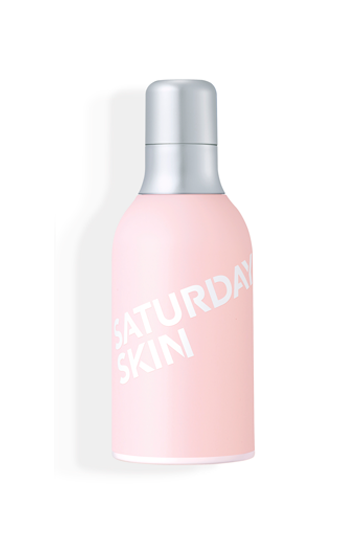
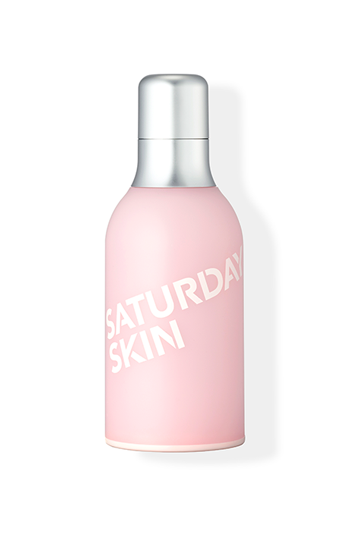
replaced sat prod image

Changed region(s): [[0.275, 0.3895, 0.7333, 0.8689], [0.3056, 0.1199, 0.6417, 0.4195]]

diff --git a/client/js/common/directives/finalnavbar/finalnavbar.html b/client/js/common/directives/finalnavbar/finalnavbar.html
@@ -57,14 +57,14 @@
   <div class="menu-mobile1" style="float:left;">
     <button onclick="myFunction()" class="popup-btn1"></button>
       <div id="mobilePop1" class="popup-content1" style="left:0;">
-        <a href="/about" ui-sref="about">ABOUT</a>
-        <a href="/chaum" ui-sref="chaum">CHAUM</a>
-        <a href="/cha-health-systmes" ui-sref="cha-health-systems">CHA HEALTH SYSTEMS</a>
-        <a href="/innovation" ui-sref="innovation">INNOVATION</a>
-        <a href="aurous" ui-sref="aurous">AUROUS</a>
+        <a href="/about" ui-sref="about" id="mobile-menu-about">ABOUT:         THE STORY</a>
+        <a href="/chaum" ui-sref="chaum" id="mobile-menu-chaum">CHAUM</a>
+        <a href="/cha-health-systmes" ui-sref="cha-health-systems" id="mobile-menu-chs">CHA HEALTH SYSTEMS</a>
+        <a href="/innovation" ui-sref="innovation" id="id="mobile-menu-innovation"">INNOVATION</a>
+        <a href="aurous" ui-sref="aurous" id="mobile-menu-aurous">AUROUS</a>
         <!-- <a href="/aurous/products" ui-sref="aurous_products">AUORUS PRODUCTS</a> -->
-        <a href="/saturday-skin" ui-sref="saturday-skin">SATURDAY SKIN</a>
-        <a href="/saturday-skin/products" ui-sref="saturday_products">SATURDAY SKIN PRODUCTS</a>
+        <a href="/saturday-skin" ui-sref="saturday-skin" id="mobile-menu-sat">SATURDAY SKIN:         THE BRAND</a>
+        <a href="/saturday-skin/products" ui-sref="saturday_products" id="mobile-menu-satprod">       THE PRODUCTS</a>
       </div>
   </div>
 
@@ -74,11 +74,9 @@
     <img id="callingsearchs1" src="search1.png"  />
 
     <div id="search-popup" class="popup-content-search" style="left:0;">
-      <div class="close-button"><img src="icons/close-icon.png"></div>
-
+  
       <div class="search-content">
-        <input id="mobile-search" type="text" ng-model="text" placeholder="Type to search"></input>
-        <!-- <div id="mobile-search-icon"> <img src="search1.png"  /></div> -->
+        <input id="mobile-search" type="text" ng-model="text" ></input>
       </div>
       
     </div>
@@ -107,8 +105,24 @@ window.onclick = function(event) {
         openDropdown.classList.remove('show');
       }
     }
+    // document.getElementsByClassName("popup-btn1").
+    $(".popup-btn1").removeClass("x-icon");
   }
 }
+
+// window.onclick = function(e) {
+//     if(!e.target.matches('.third-part-mobile')) {
+//     var popcontent = document.getElementsByClassName("popup-content-search");
+//     var j; 
+//     for (j = 0; j < popcontent.length; j++) {
+//       var content = popcontent[i];
+//       if (content.classList.contains('show-popup')) {
+//         content.classList.remove("show-popup");
+//       }
+//     }
+//   }
+// }
+
 </script>
 
 

diff --git a/client/js/common/directives/finalnavbar/finalnavbar.scss b/client/js/common/directives/finalnavbar/finalnavbar.scss
@@ -465,6 +465,15 @@ a.up-arrow-about:after {
   display: none;
 }
 
+#callingsearchs1 {
+  margin-right: 15px;
+  height: 18px;
+  width: 15px;
+  padding-left: 2px;
+  margin-top: 3px;
+  padding-top: 3px;
+}
+
 .mobile-menu {
   height: 60px;
   width: 100%;
@@ -486,10 +495,12 @@ a.up-arrow-about:after {
 .popup-btn1 {
   background-color: white;
   width: 45px;
-  height: 40px;
+  height: 45px;
   font-size: 12px;
   border: none;
   cursor: pointer;
+  background-position: 80% 93%;
+  background-size: 36px;
   background-image: url("menu-22.png");
   background-repeat: no-repeat;
 }
@@ -502,43 +513,53 @@ a.up-arrow-about:after {
 .popup-content1 {
   display: none;
   position: absolute;
-  margin-top: 13px;
-  background-color: rgba(25, 28, 59, 0.9);
+  margin-top: 8px;
+  background-color: rgba(255, 255, 255, 1);
+  /*background-color: rgba(25, 28, 59, 0.9);*/
   /*min-width: 300px;*/
   width: 100vw;
   height: 100vh;
   overflow: auto;
   z-index: 9999;
-  text-align: center;
+  /*text-align: center;*/
 }
 
 .popup-content1 a {
-  color: rgba(173, 216, 230, 0.9);
-  font-family: WorkSans;
-  font-weight: 700;
-  letter-spacing: 1px;
-  padding: 20px 16px;
+  /*color: rgba(173, 216, 230, 0.9);*/
+  /*font-family: WorkSans;*/
+  /*font-weight: 700;*/
+  /*letter-spacing: 1px;*/
+  padding: 19px 16px;
   text-decoration: none;
   border-top: 1px solid rgba(173, 216, 230, 0.4);
   display: block;
+
+  opacity: 0.8;
+  color: grey;
+  font-size: 13px;
+  font-family: 'Work Sans';
 }
 
 .popup-content-search {
   display: none;
   position: absolute;
-  margin-top: 24px;
-  background-color: rgba(25, 28, 59, 0.9);
-  width: 100vw;
-  height: 160px;
-  /*overflow: auto;*/
+  width: 200px;
+  margin-right: auto;
+  margin-left: auto;
+  left: 0 !important;
+  right: 0 !important;
+  margin-top: -38px;
+  background-color: white;
+  /*background-color: rgba(25, 28, 59, 0.9);*/
+  height: 59px;
+  padding-top: 17px;
   z-index: 999;
   text-align: center;
 
-  color: rgba(173, 216, 230, 0.9);
+  color: black;
   font-family: WorkSans;
   font-weight: 700;
 }
-
 
 .menu-mobile1 a:hover {background-color: #f1f1f1}
 
@@ -549,10 +570,6 @@ a.up-arrow-about:after {
   /*margin-left: 42%;*/
   margin: 0 auto;
   width: 118px;
-}
-
-.mobile-menu {
-  text-align: center;
 }
 
 .third-part-mobile {
@@ -568,5 +585,15 @@ a.up-arrow-about:after {
   z-index: 9999;
 }
 
+#mobile-menu-about {
+  /*padding-left: 50%;*/
+}
+
+
+.x-icon {
+  background-image: url('icons/close-icon.png');
+  background-position: 55% 72%;
+  background-size: 25px;
+}
 
 }

diff --git a/client/js/saturday_products/saturday_products.scss b/client/js/saturday_products/saturday_products.scss
@@ -209,11 +209,6 @@
 }
 
 @media screen and (max-width: 769px) {
-    .prodcut-grid-item-inner {
-        height: 350px;
-        margin: 0 auto;
-        /*font-size: 13px;*/
-    }
 
     .product-list {
         margin-top: -55px;
@@ -223,9 +218,15 @@
         margin-top: -55px;
     }
 
-    .sat-prod-text {
+/*    .sat-prod-text {
         padding-left: 5%;
     }
+
+    .prodcut-grid-item-inner {
+        height: 350px;
+        margin: 0 auto;
+    }
+*/
 }
 
 

diff --git a/client/js/common/directives/finalnavbar/fianlnavbar.controller.js b/client/js/common/directives/finalnavbar/fianlnavbar.controller.js
@@ -84,8 +84,16 @@ app.controller('FinalNavBarController', function($scope, $http, AdminFactory, $s
 			$(".popup-content-search").hide();
 		});
 
+		$('.popup-btn1').click(function(){
+			console.log("menu clicked!!!!");
+			$(this).toggleClass("x-icon");
+		})
 
-	
 	});
+
+	$("#mobile-search").blur(function() {
+		// $("#mobile-search").addClass('fade-out-effect-input').removeClass("fade-in-effect-input");
+		// $("#mobile-search").fadeIn().fadeOut();
+	})
 
 });
